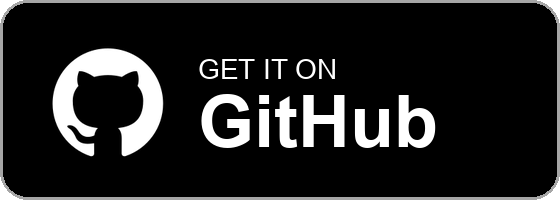
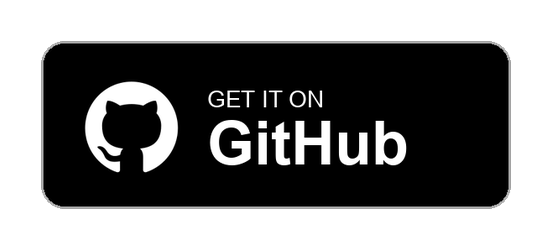
docs: render store badges at the same Play canvas size
GitHub was drawing the App Store SVG at its intrinsic 40px height, and the GitHub badge filled its canvas with no padding. Rasterize Apple's artwork and match both pills to the Play badge's 168px mark on a 250px canvas.

diff --git a/README.md b/README.md
@@ -28,7 +28,7 @@
 </p>
 
 <p align="center">
-  <a href="APP_STORE_URL"><img src="static/app-store-badge.svg" alt="Download on the App Store" height="64"></a>
+  <a href="APP_STORE_URL"><img src="static/app-store-badge.png" alt="Download on the App Store" height="64"></a>
   <a href="https://play.google.com/store/apps/details?id=me.rosuh.easywatermark"><img src="static/google-play-badge.png" alt="Get it on Google Play" height="64"></a>
   <a href="https://github.com/rosuH/EasyWatermark/releases"><img src="static/github-release-badge.png" alt="Get it on GitHub" height="64"></a>
 </p>

diff --git a/README_zh-CN.md b/README_zh-CN.md
@@ -28,7 +28,7 @@
 </p>
 
 <p align="center">
-  <a href="APP_STORE_URL"><img src="static/app-store-badge_cn.svg" alt="在 App Store 下载" height="64"></a>
+  <a href="APP_STORE_URL"><img src="static/app-store-badge_cn.png" alt="在 App Store 下载" height="64"></a>
   <a href="https://play.google.com/store/apps/details?id=me.rosuh.easywatermark"><img src="static/google-play-badge_cn.png" alt="Google Play 下载" height="64"></a>
   <a href="https://github.com/rosuH/EasyWatermark/releases"><img src="static/github-release-badge_cn.png" alt="在 GitHub 下载" height="64"></a>
 </p>
